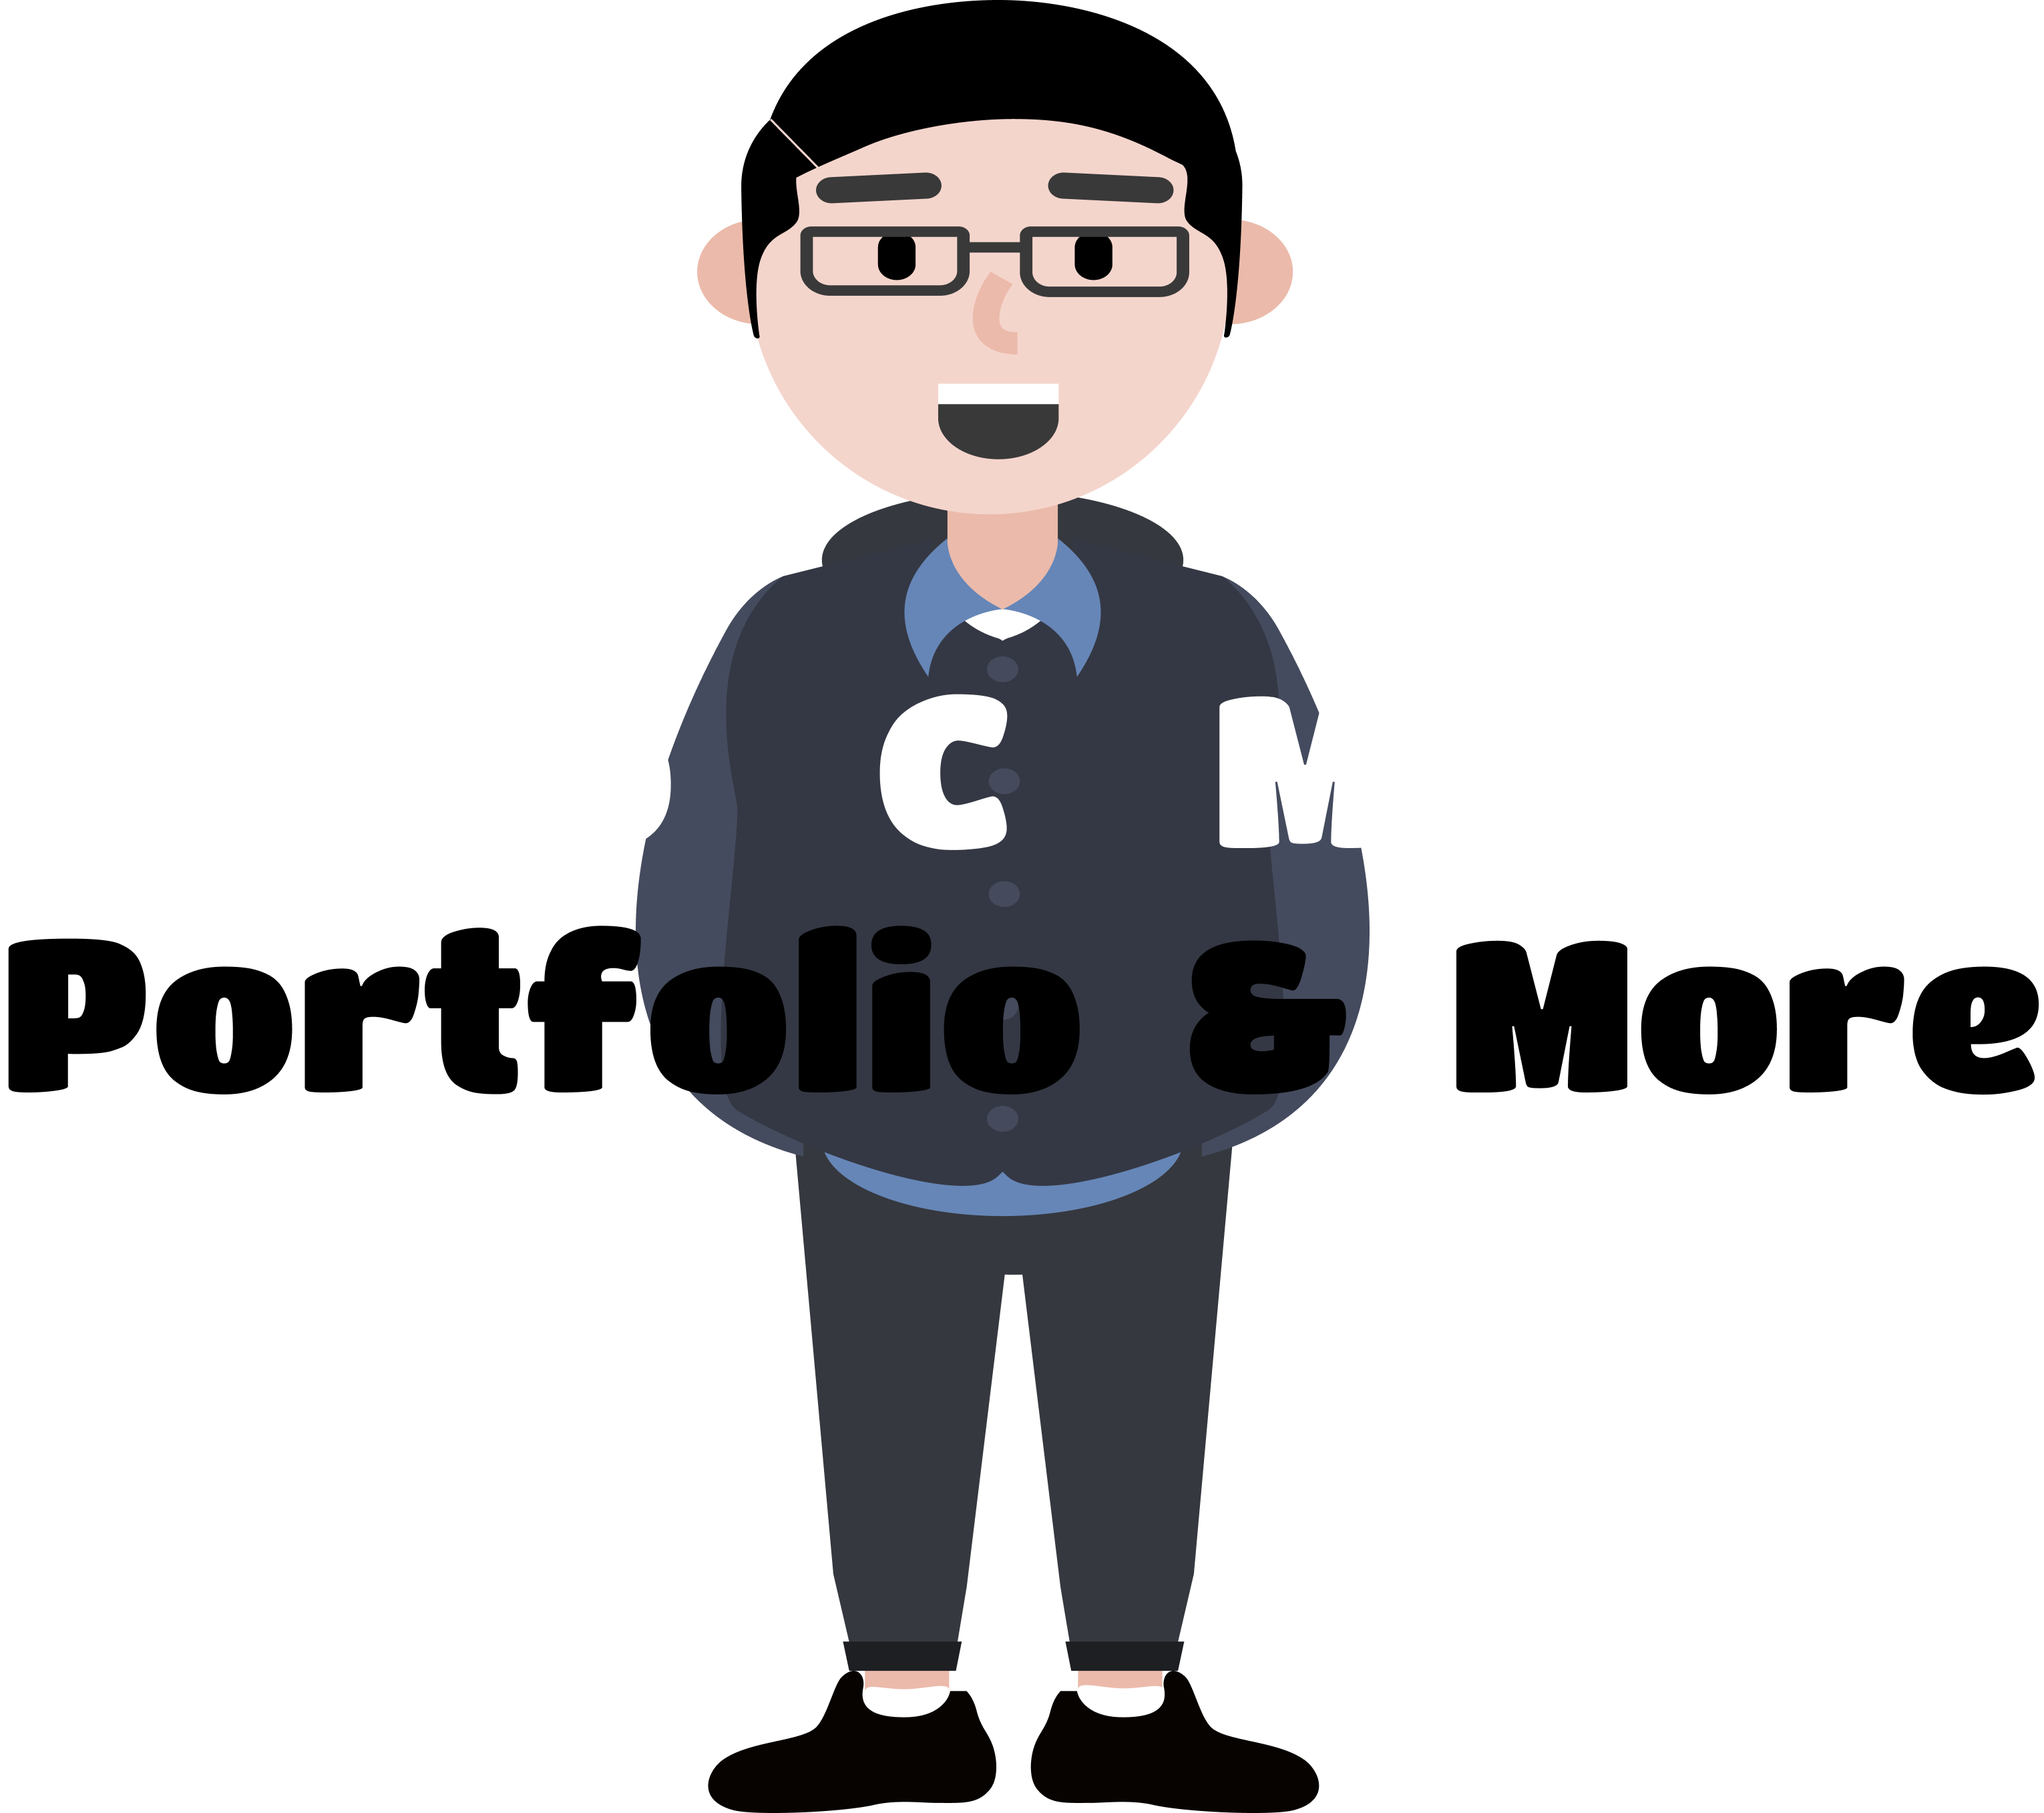
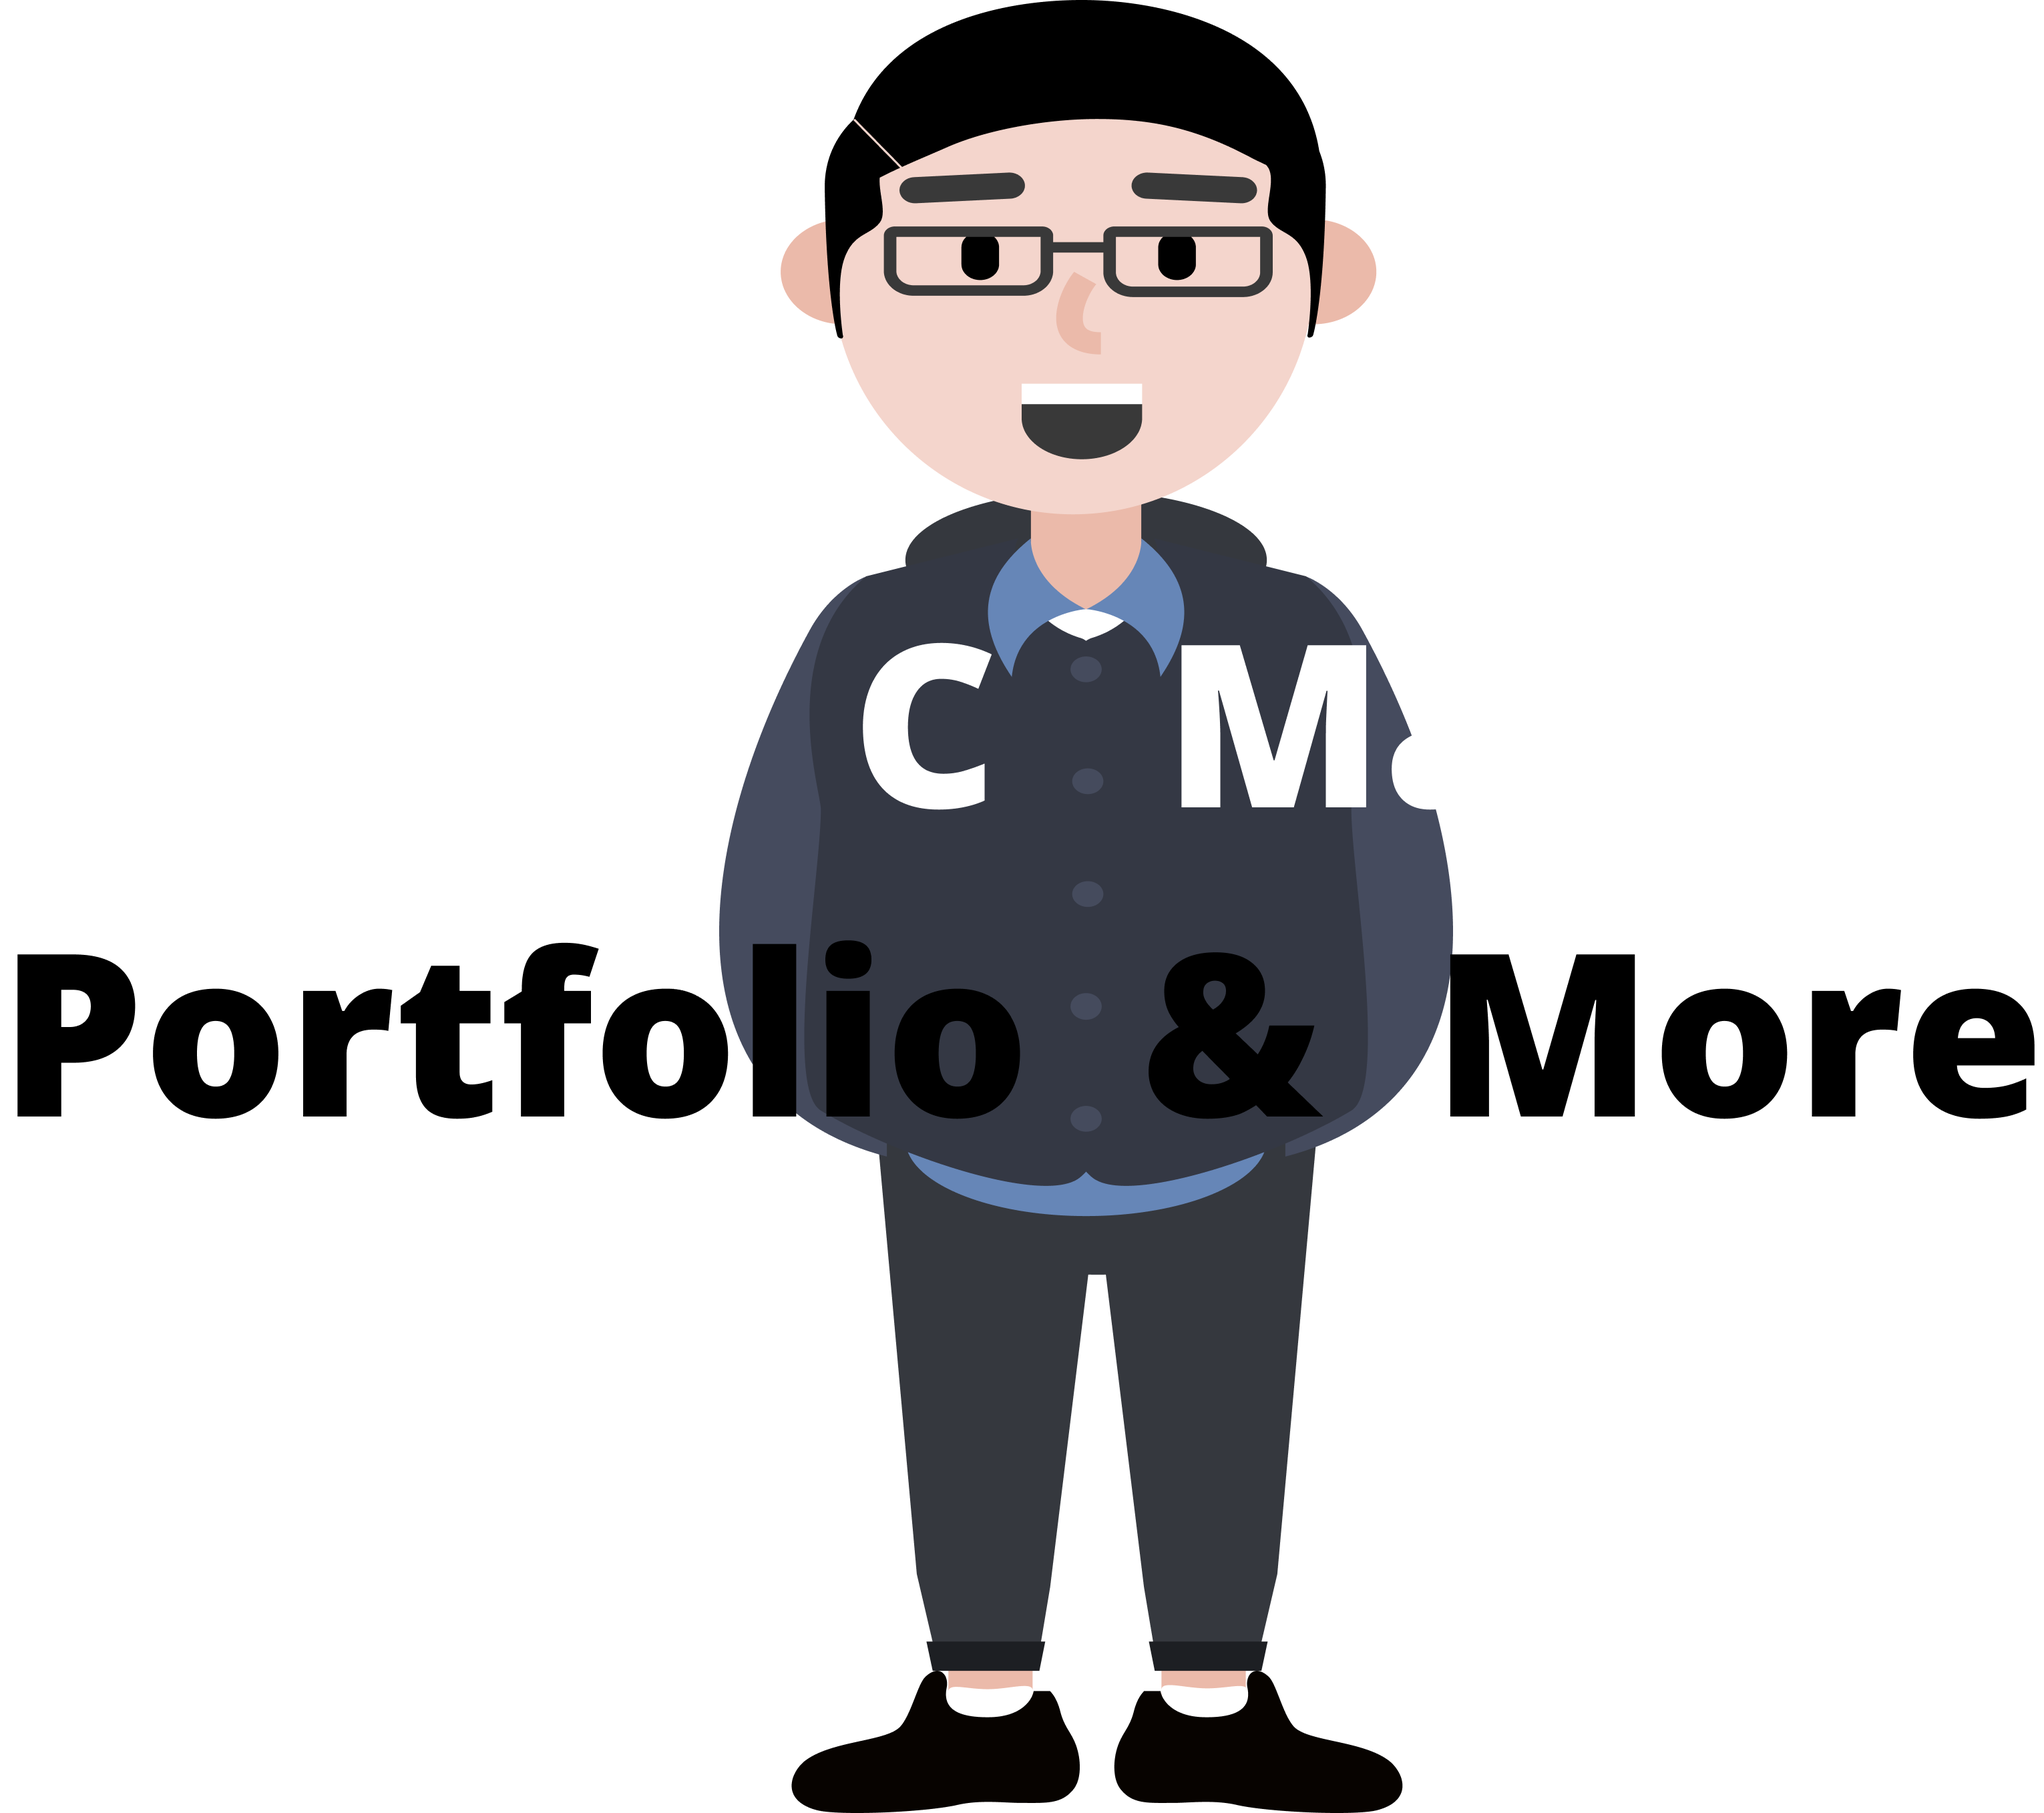
Committed on Sept 20

Changed region(s): [[0.0, 0.0, 1.0, 1.0]]

diff --git a/projects.css b/projects.css
@@ -1,0 +1,120 @@
+/*General styling*/
+
+body{
[1 lines of base64/hex data omitted]
+  background-color: black;
+  /*overflow-y: hidden;*/
+  height: 100%;
+  overflow: hidden;
+}
+
+.logo {
+  position: absolute;
+  top: 5px;
+  left: 75px;
+  float: left;
+  padding: 10px 0px;
+  max-height: 5% !important;
+}
+
+h1, h2, h3, p{
+  color: white;
+}
+
+
+* {
+  margin:0px;
+  padding:0px;
+  font-family: open-sans;
+}
+
+.slide{
+  padding: 100px 10px;
+  width: 98vw;
+  height: 50vh;
+}
+
+.s-container{
+  position: absolute;
+  height: 50vh;
+  width: 95vw;
+  padding: 5px;
+}
+
+.city-panorama-container > img{
+  position: absolute;
+  margin: auto;
+  position:absolute;
+  border-style: none;
+  border-color: none;
+  top: 0%;
+  height: 60% !important;
+  width: 98% !important;
+  left: 5px !important;
+  right: 5px !important;
+  background-size: 100% 100%;
+}
+
+.wrapper{
+  display:flex;
+  flex-direction: row;
+  width: 400vw;
+  transform: rotate(90deg) translateY(-100vh);
+  transform-origin: top left;
+}
+
+.one{
[1 lines of base64/hex data omitted]
+  background-color: black;
+}
+
+.two{
[1 lines of base64/hex data omitted]
+  background-color: black;
+}
+
+.outer-wrapper{
+  width: 100vh;
+  height: 100vw;
+  transform: rotate(-90deg) translateX(-100vh);
+  transform-origin: top left;
+  overflow-y: scroll;
+  overflow-x:hidden;
+  position: absolute;
+  scrollbar-width: none;
+  -ms-overflow-style: none;
+}
+
+::-webkit-scrollbar{
+  display: none;
+}
+.carousel-wrapper{
+  margin: auto;
+  position: absolute;
+  top: 15%;
+  height: 100% !important;
+  width: 98% !important;
+  left: 5px;
+  right: 5px;
+}
+
+.caption{
+  margin: auto;
+  position:absolute;
+  border-style: solid;
+  border-color: transparent;
+  top: 60%;
+  height: 40% !important;
+  width: 98% !important;
+  left: 5px !important;
+  right: 5px !important;
+}
+
+.center {
+  margin: 0;
+  position: absolute;
+  top: 50%;
+  left: 50%;
+  -ms-transform: translate(-50%, -50%);
+  transform: translate(-50%, -50%);
+}

diff --git a/projects.html b/projects.html
@@ -1,0 +1,119 @@
+<!DOCTYPE html>
+<html lang = "en">
+<meta charset="UTF-8">
+<meta name="viewport" content="width=device-width, initial-scale=1">
+
+    <head>
+     <title>Mario's Projects</title>
+        <link rel = "shortcut icon" type="image/png" href ="./assets/manaluco.png">
+        <link rel="stylesheet" type="text/css" href="projects.css">
+    </head>
+
+    <!--- Beginning of BODY --->
+    <body>
+      <!--- Beginning of NAV BAR --->
+      <nav>
+        <div class = "logo">
+          <a href="index.html"><img src = "./assets/manaluco.png" height = 90 width = 95></a>
+        </div>
+      </nav>
+      <!--- End of NAV BAR --->
+
+      <!--- Beginning of Carousel --->
+      <div class="carousel-wrapper">
+      <div class="outer-wrapper">
+        <div class="wrapper">
+          <div class="slide one">
+            <div class="s-container">
+            <h1> Welcome to my project homepage! </h1>
+            <br>
+            <br>
+            <h3> This page contains some personal projects that I have finished for my own fulfillment.
+            I name my projects after major cities that I have visited in reversed chronological order, so the first city you see
+            is the my most recent destination. I decided to use this naming system
+            to remind myself of places I have been and how big the world is, plus when I run out of names for my future projects,
+            which indicates that I have not been travelling for a while, I will be encouraged to visit a new place.</h3>
+            <br>
+            <br>
+            <h3> Feel free to scroll around. The images are "href"-ed. You can click them, and they will direct you to the corresponding
+              page. There is no "Back" button, instead you could click on the logo at the top left corner, and it will direct you to the
+              home page. </h3>
+          </div>
+        </div>
+        <div class="slide two">
+          <div class="s-container">
+            <div class="city-panorama-container">
+              <img src="./assets/london.jpg">
+              </div>
+            <div class="caption">
+            <h1> Project London </h1>
+            <p>Lorem ipsum dolor sit amet, consectetur adipiscing elit,
+              sed do eiusmod tempor incididunt ut labore et dolore magna aliqua.
+              Ut enim ad minim veniam, quis nostrud exercitation ullamco laboris nisi ut aliquip ex ea commodo consequat.
+              Duis aute irure dolor in reprehenderit in voluptate velit esse cillum dolore eu fugiat nulla pariatur.
+              Excepteur sint occaecat cupidatat non proident, sunt in culpa qui officia deserunt mollit anim id est laborum.
+            <br>
+            <p>Lorem ipsum dolor sit amet, consectetur adipiscing elit,
+              sed do eiusmod tempor incididunt ut labore et dolore magna aliqua.
+              Ut enim ad minim veniam, quis nostrud exercitation ullamco laboris nisi ut aliquip ex ea commodo consequat.
+              Duis aute irure dolor in reprehenderit in voluptate velit esse cillum dolore eu fugiat nulla pariatur.
+              Excepteur sint occaecat cupidatat non proident, sunt in culpa qui officia deserunt mollit anim id est laborum.
+          </div>
+        </div>
+            </div>
+          </div>
+        </div>
+      </div>
+
+
+      <!---
+      <div class="carousel-wrapper">
+        <div class="carousel-inside">
+          <br>
+          <br>
+          <h1> Welcome to my project homepage! </h1>
+          <br>
+          <br>
+          <h3> This page contains some personal projects that I have finished for my own fulfillment.
+          I name my projects after major cities that I have visited in reversed chronological order, so the first city you see
+          is the my most recent destination. I decided to use this naming system
+          to remind myself of places I have been and how big the world is, plus when I run out of names for my future projects,
+          which indicates that I have not been travelling for a while, I will be encouraged to visit a new place.</h3>
+          <br>
+          <br>
+          <h3> Feel free to scroll around. The images are "href"-ed. You can click them, and they will direct you to the corresponding
+            page. There is no "Back" button, instead you could click on the logo in the top left corner, and it will direct you to the
+            home page. </h3>
+          </div>
+      <div>
+      --->
+
+      <!-- LONDON
+      <div class="carousel-wrapper">
+       <div class="carousel-inside">
+        <div class="slide 1"
+        <div id = "london">
+          </div>
+          <div class = "caption">
+              <h1> Project London </h1>
+              <p>Lorem ipsum dolor sit amet, consectetur adipiscing elit,
+                sed do eiusmod tempor incididunt ut labore et dolore magna aliqua.
+                Ut enim ad minim veniam, quis nostrud exercitation ullamco laboris nisi ut aliquip ex ea commodo consequat.
+                Duis aute irure dolor in reprehenderit in voluptate velit esse cillum dolore eu fugiat nulla pariatur.
+                Excepteur sint occaecat cupidatat non proident, sunt in culpa qui officia deserunt mollit anim id est laborum.
+              <br>
+              <p>Lorem ipsum dolor sit amet, consectetur adipiscing elit,
+                sed do eiusmod tempor incididunt ut labore et dolore magna aliqua.
+                Ut enim ad minim veniam, quis nostrud exercitation ullamco laboris nisi ut aliquip ex ea commodo consequat.
+                Duis aute irure dolor in reprehenderit in voluptate velit esse cillum dolore eu fugiat nulla pariatur.
+                Excepteur sint occaecat cupidatat non proident, sunt in culpa qui officia deserunt mollit anim id est laborum.
+            </div>
+          </div>
+        </div>
+      </div>
+          -->
+
+      <!--- End of Carousel --->
+    </body>
+
+</html>

diff --git a/index.html b/index.html
@@ -23,7 +23,7 @@
         <div id="mySidenav" class="sidenav">
           <a href="javascript:void(0)" class="closebtn" onclick="closeNav()"> &times;</a>
           <div class="center">
-            <a href="#">Projects</a>
+            <a href="projects.html">Projects</a>
             <a href="#">About</a>
             <a href="#">Contact</a>
           </div>

diff --git a/style.css b/style.css
@@ -20,7 +20,7 @@ body{
 * {
   margin:0px;
   padding:0px;
-  font-family: happy-monkey;
+  font-family: lato;
 }
 
 /*Sidenav*/
@@ -61,7 +61,7 @@ body{
 }
 
 .sidenav a:hover{
-  color: #f1f1f1;
+  text-decoration: underline;
 }
 
 .sidenav .closebtn {
